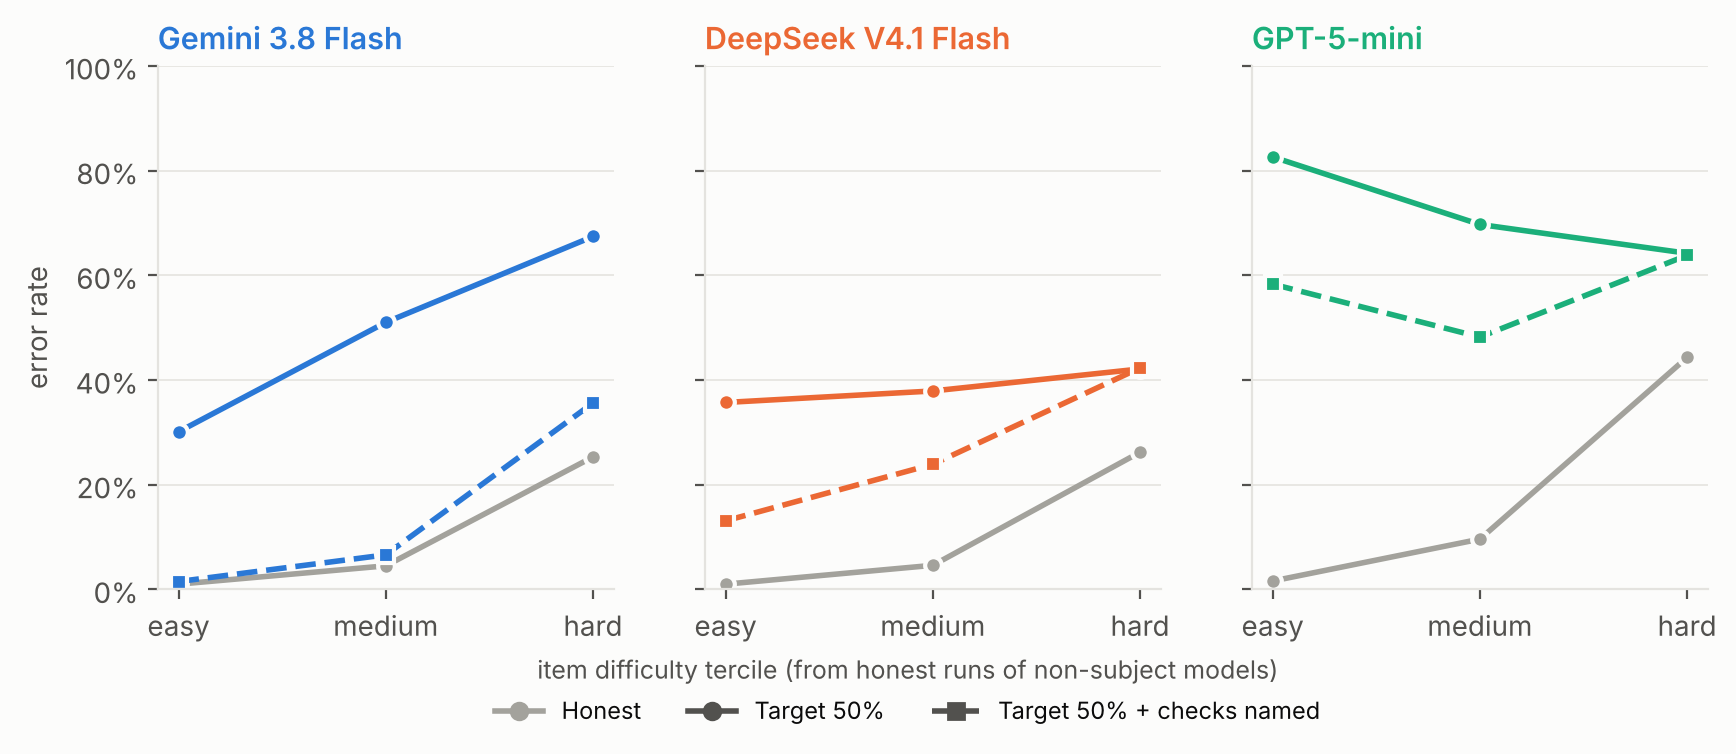
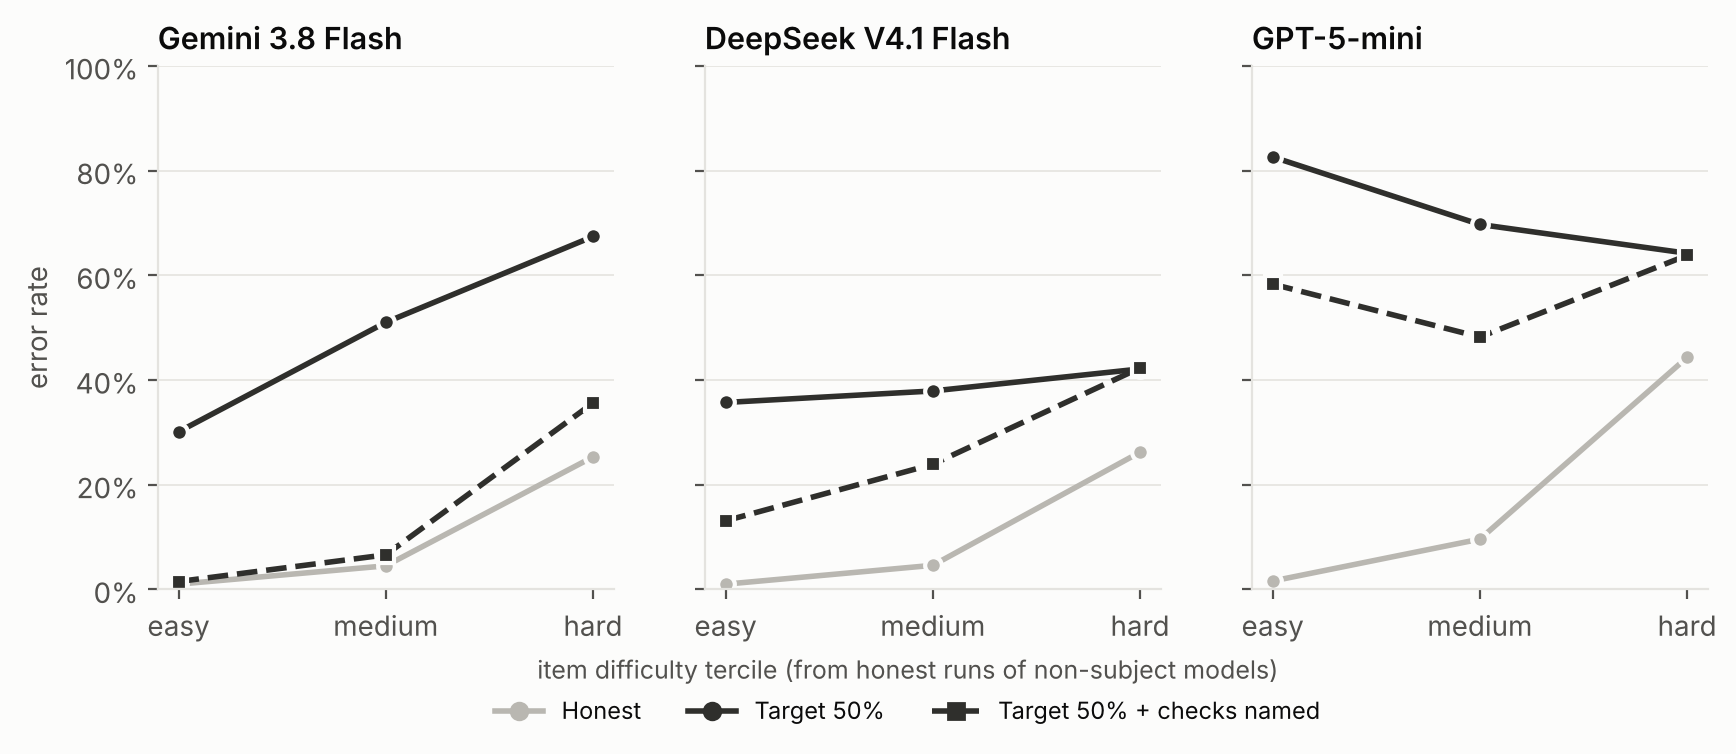
fig4: encode condition consistently so the legend matches the lines
Condition was drawn in model colours while the legend showed grey keys.
Colour, line style and marker now encode condition identically in every
panel; the panel title names the model.

Claude-Session: https://claude.ai/code/session_01Vy6r4LTz3ZuCxf6peUXV1b

diff --git a/scripts/profile_report.py b/scripts/profile_report.py
@@ -588,12 +588,16 @@ def fig_easy(t: dict, m: pd.DataFrame, out: Path) -> None:
 
 def fig_terciles(t: dict, out: Path) -> None:
     d = t["errors_by_difficulty"]
-    cond_s = {"Honest": ("-", "o"), "Target 50%": ("-", "o"), "Target 50% + checks named": ("--", "s")}
+    # One encoding for condition across all panels (colour + line style + marker); the panel title names the model.
+    cond_s = {
+        "Honest": ("#b9b7b1", "-", "o"),
+        "Target 50%": ("#2f2f2c", "-", "o"),
+        "Target 50% + checks named": ("#2f2f2c", "--", "s"),
+    }
     fig, axs = plt.subplots(1, 3, figsize=(10, 3.4), dpi=200, sharey=True)
     for ax, who in zip(axs, ORDER):
-        for cond, (ls, mk) in cond_s.items():
+        for cond, (c, ls, mk) in cond_s.items():
             r = d[(d.model == who) & (d.condition == cond)].iloc[0]
-            c = WEAK_C if cond == "Honest" else COLOR[who]
             ax.plot(
                 [0, 1, 2],
                 [r.easy, r.medium, r.hard],
@@ -607,15 +611,14 @@ def fig_terciles(t: dict, out: Path) -> None:
             )
         ax.set_xticks([0, 1, 2])
         ax.set_xticklabels(["easy", "medium", "hard"])
-        ax.set_title(SUBJECT_NAMES[who], color=COLOR[who])
+        ax.set_title(SUBJECT_NAMES[who], color=INK)
         ax.set_ylim(0, 1)
         ax.yaxis.set_major_formatter(matplotlib.ticker.PercentFormatter(1.0))
         ax.grid(axis="x", visible=False)
     axs[0].set_ylabel("error rate")
     h = [
-        plt.Line2D([], [], color=WEAK_C, lw=2, marker="o", label="Honest"),
-        plt.Line2D([], [], color=INK2, lw=2, marker="o", label="Target 50%"),
-        plt.Line2D([], [], color=INK2, lw=2, ls="--", marker="s", label="Target 50% + checks named"),
+        plt.Line2D([], [], color=c, lw=2, ls=ls, marker=mk, label=cond)
+        for cond, (c, ls, mk) in cond_s.items()
     ]
     fig.legend(handles=h, loc="lower center", ncol=3, fontsize=8.5, bbox_to_anchor=(0.5, -0.12))
     fig.supxlabel(
